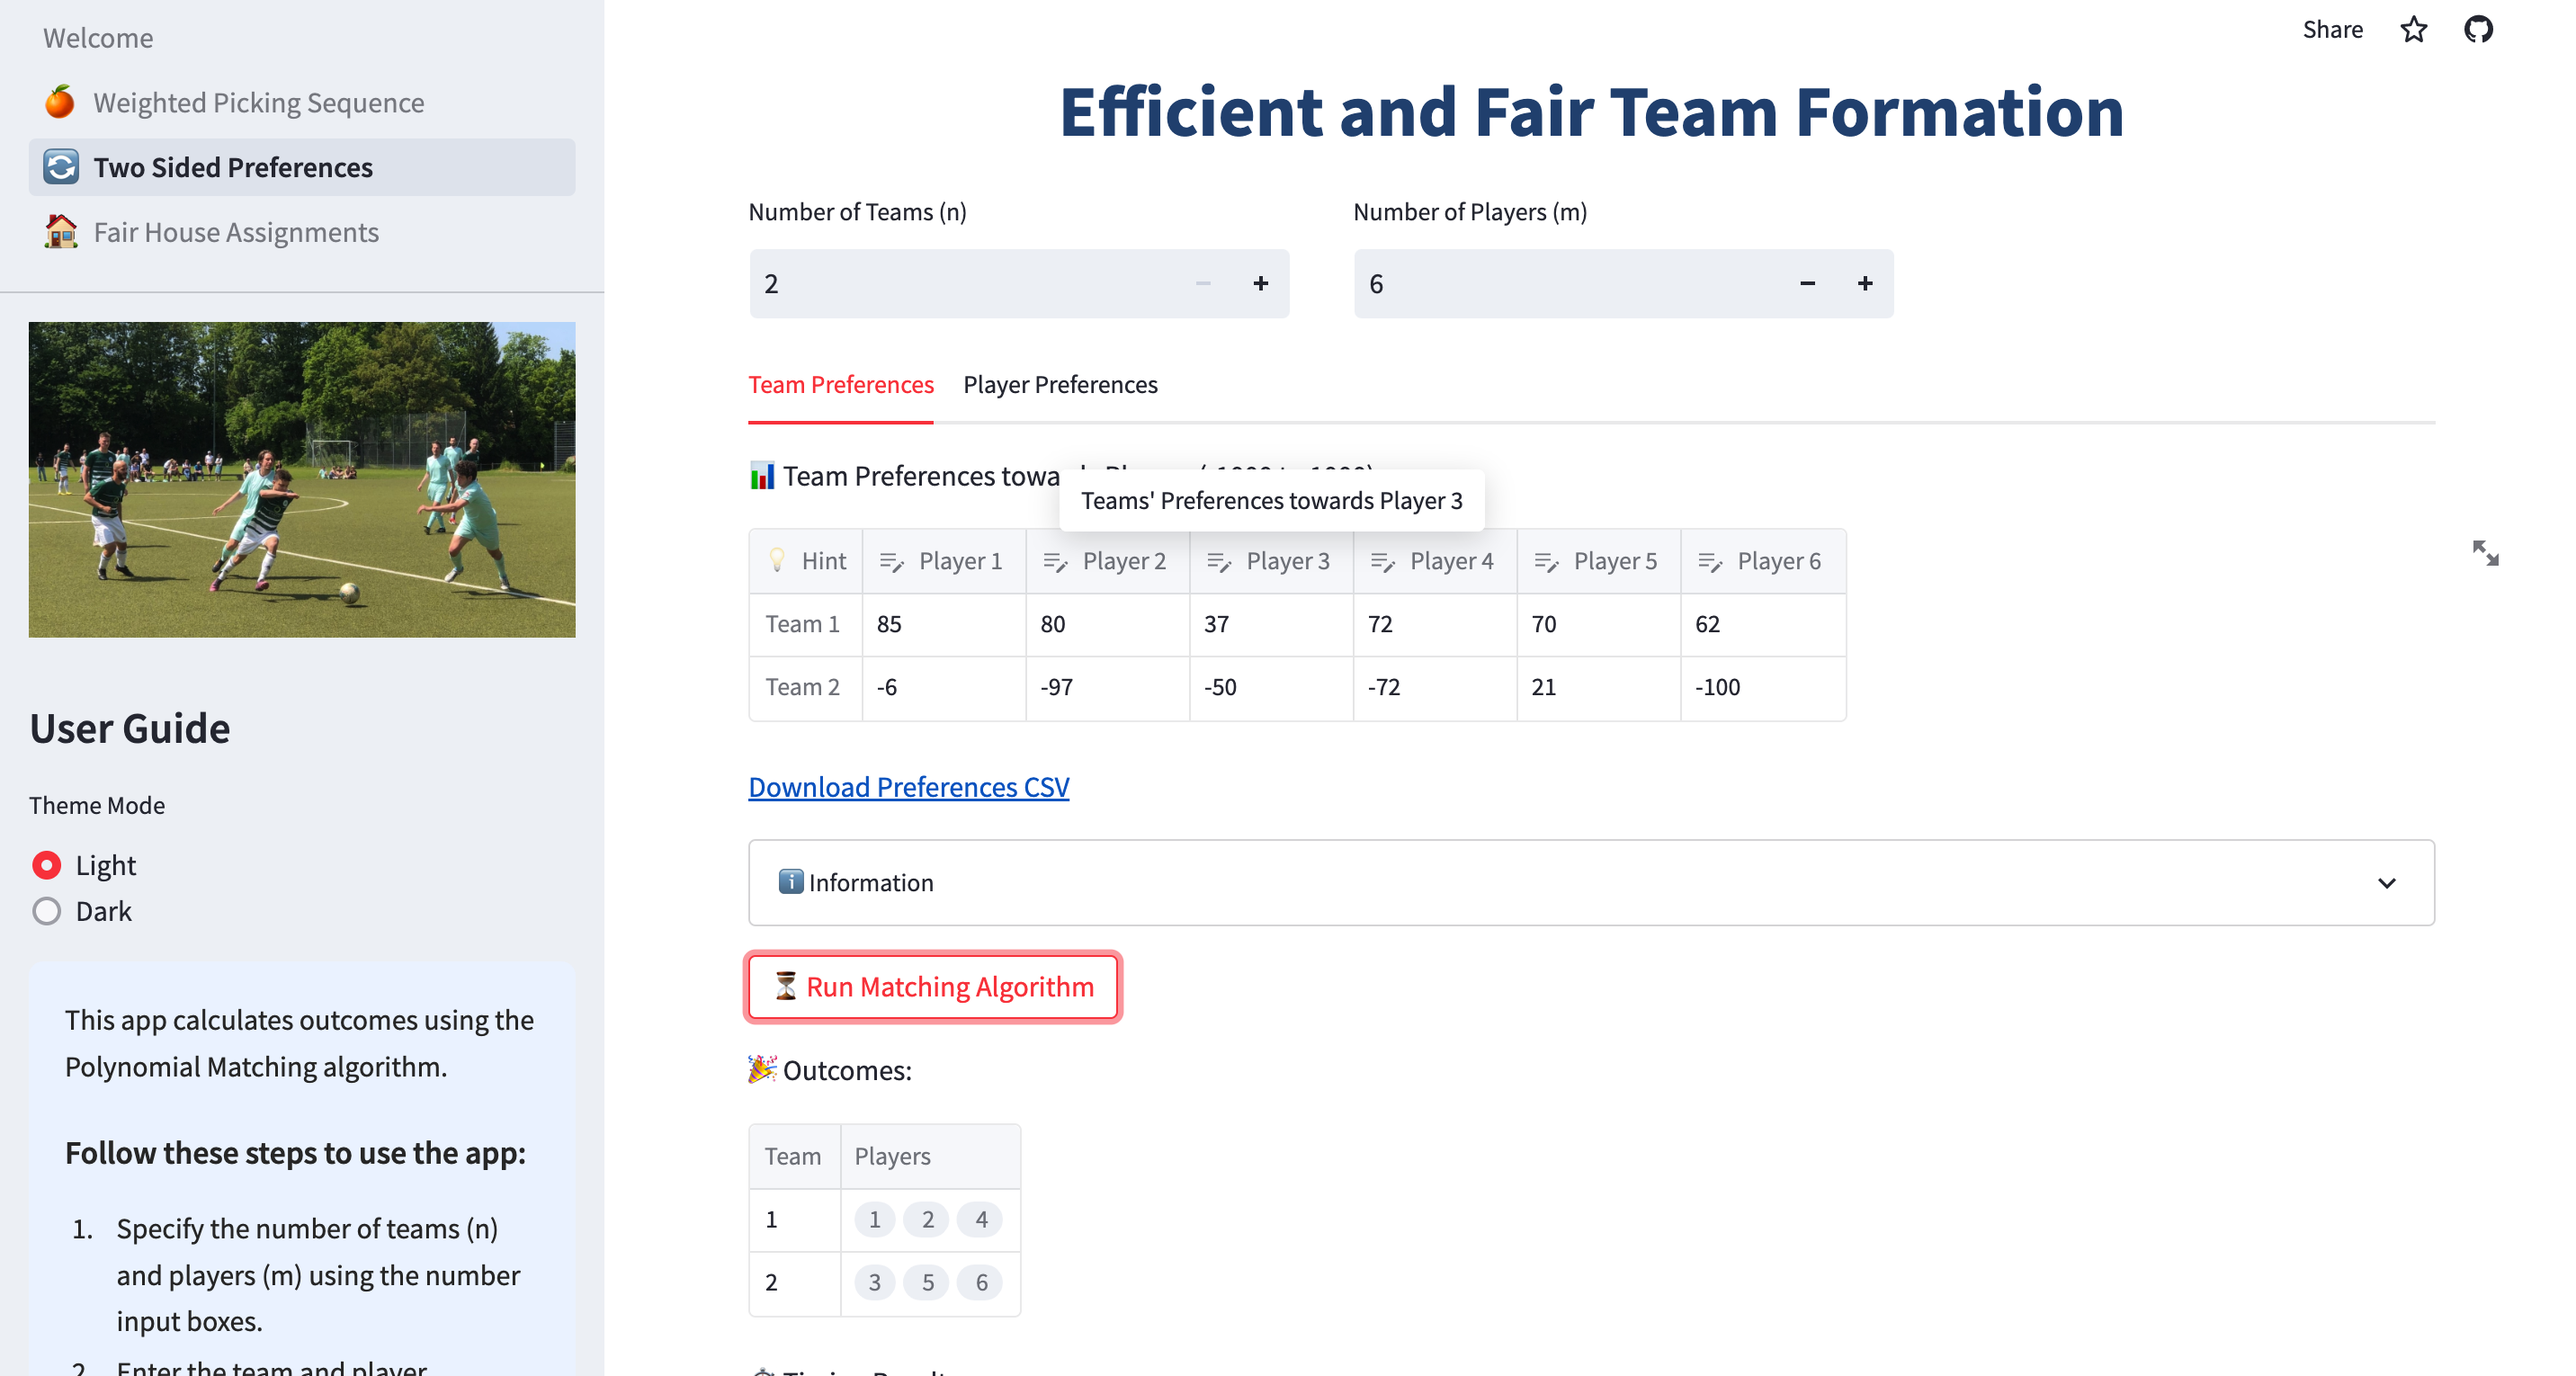
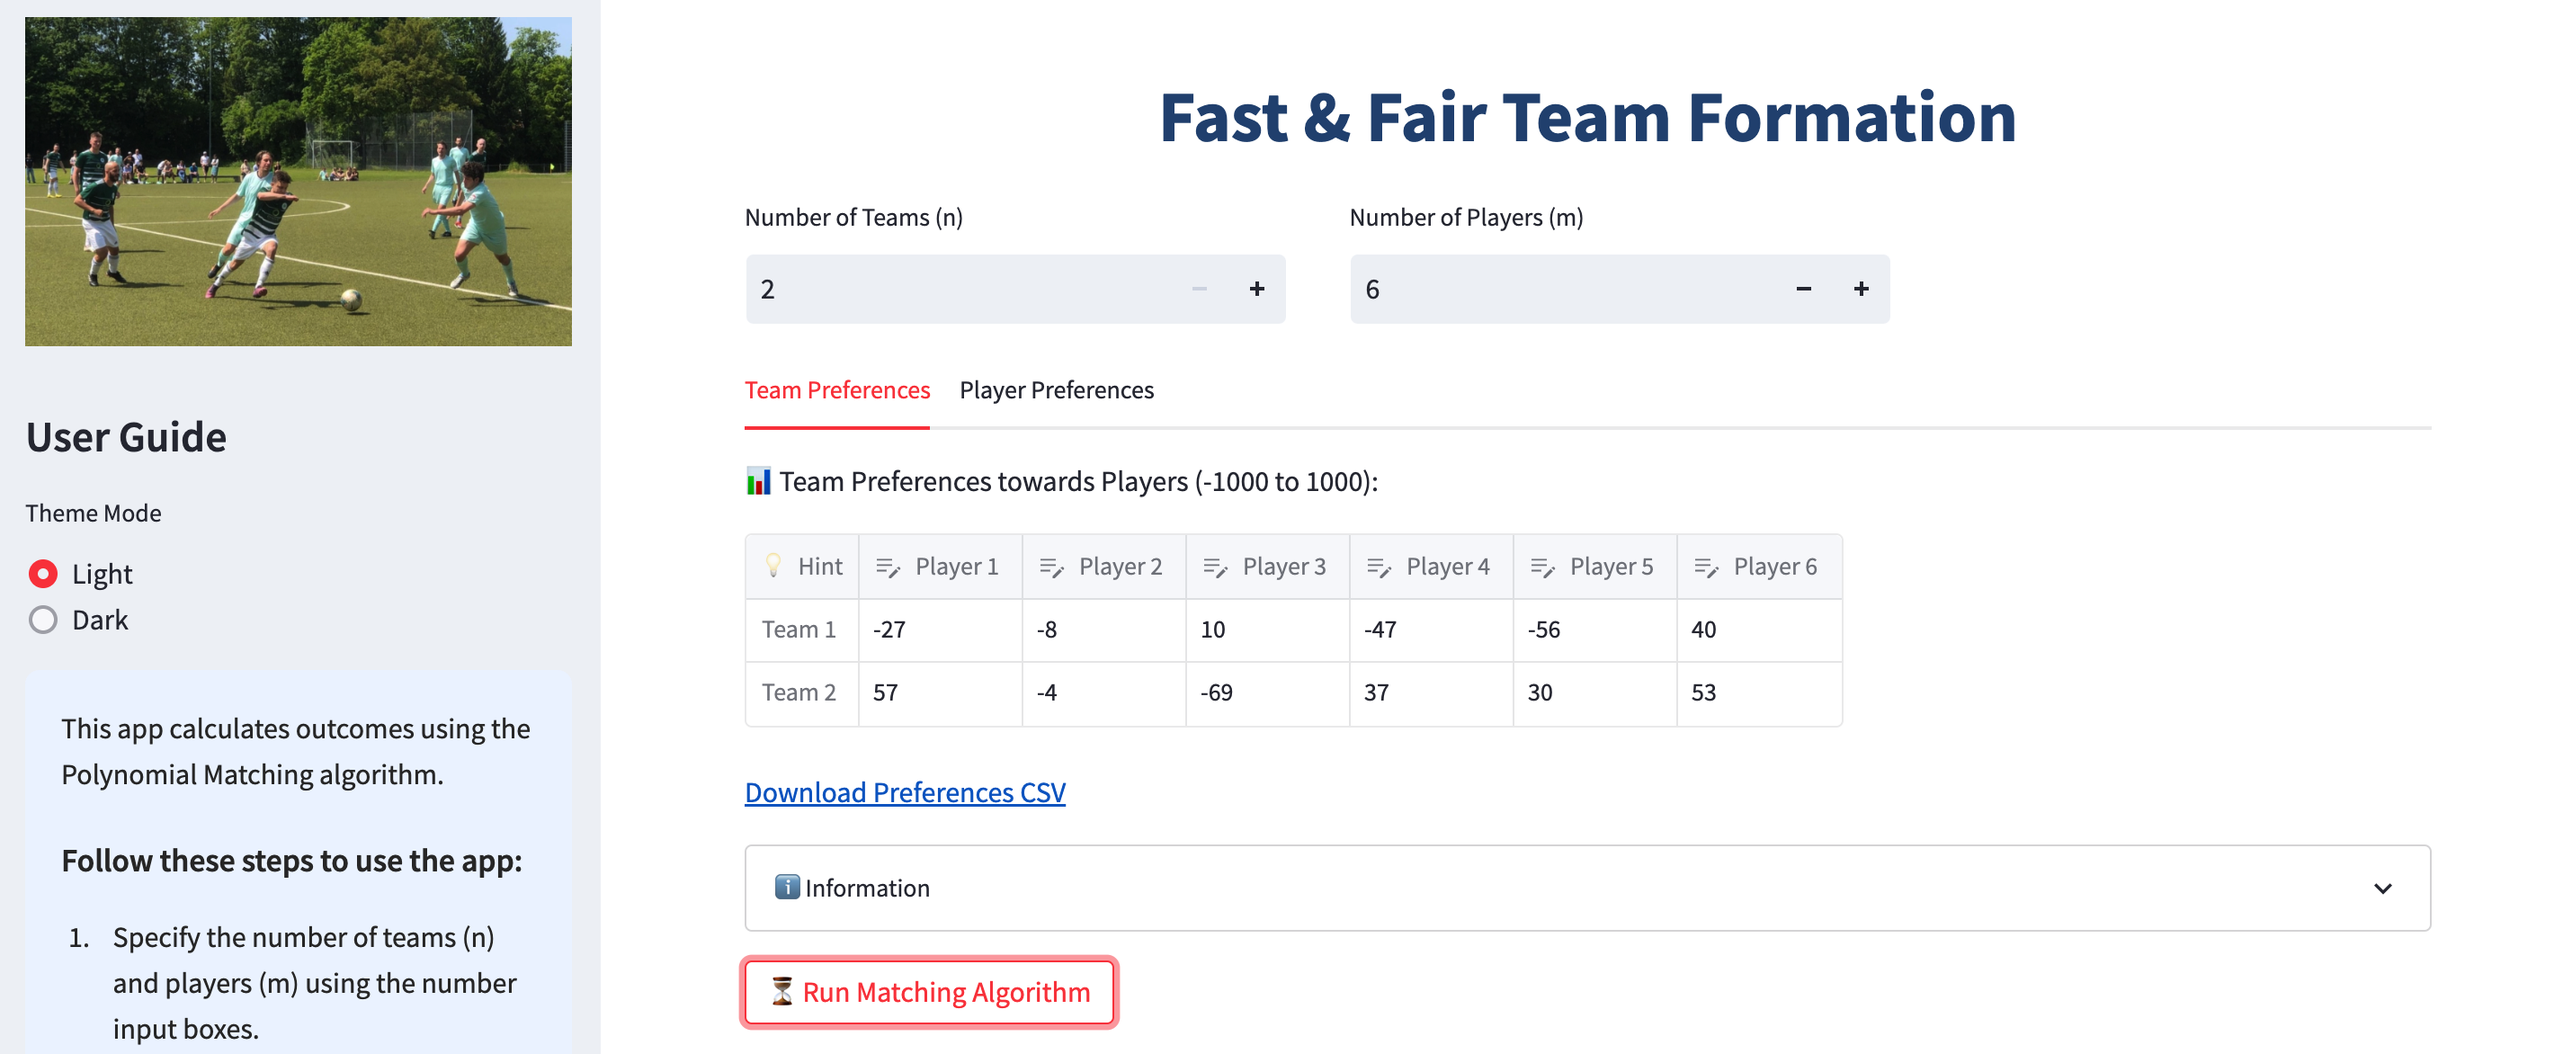
Make advanced contribution guide

diff --git a/Welcome.py b/Welcome.py
@@ -2,7 +2,7 @@ import streamlit as st
 
 # Configure page settings
 st.set_page_config(
-    page_title="Welcome to the Fair Allocation App!",
+    page_title="Welcome to Fast & Fair!",
     page_icon="🌟",
     layout="wide",
 )
@@ -20,14 +20,14 @@ st.markdown(
 )
 
 # Page 1: Introduction
-st.title(" Welcome to the Fair Allocation App! 👋")
+st.title(" Welcome to Fast & Fair! 👋")
 
-st.write("This app is designed to help you achieve fair allocation of indivisible items!")
+st.write("This app is designed to help you achieve fair division of indivisible items!")
 st.markdown(
     """
-    We offer a variety of algorithmic implementations to ensure a fair distribution of these items, taking into account the concept of weighted envy-freeness (WEF).
+    We offer a variety of algorithmic implementations to ensure a fair distribution of these items, taking into account some fairness notions such as envy-freeness up to one item (EF1) and weighted envy-freeness (WEF).
     
-    Weighted envy-freeness is a fairness criterion that aims to minimize the envy experienced by participants in an allocation process. It assigns a weight to each participant's preferences, allowing for personalized fairness. Our app will help you find an allocation that balances these preferences as closely as possible, maximizing overall satisfaction.
+    Our app will help you find an allocation that fulfills these notions as closely as possible, maximizing overall satisfaction.
 """
 )
 
@@ -36,40 +36,67 @@ st.header("App Layout")
 st.write("Let's take a quick tour of the app's components:")
 
 # Load and display the image
-tab1, tab2, tab3 = st.tabs(["App 1","App 2","App 3"])
+tab1, tab2, tab3 = st.tabs(["App 1", "App 2", "App 3"])
 with tab1:
     image = "./resource/layout1.png"
     st.image(image, caption="App Layout", use_column_width=True)
-    
+
 with tab2:
     image = "./resource/layout2.png"
     st.image(image, caption="App Layout", use_column_width=True)
-    
+
 with tab3:
     image = "./resource/layout3.png"
     st.image(image, caption="App Layout", use_column_width=True)
 
-st.markdown("- **Sidebar**: On the left, you'll find a handy sidebar for easy navigation.")
-st.markdown("- **Main Section**: The main section in the center will display the content of the selected page.")
-st.markdown("- **User Guide**: The default page provides a user guide to help you understand how to use the app.")
+st.markdown(
+    "- **Sidebar**: On the left, you'll find a handy sidebar for easy navigation.")
+st.markdown(
+    "- **Main Section**: The main section in the center will display the content of the selected page.")
+st.markdown(
+    "- **User Guide**: The default page provides a user guide to help you understand how to use the app.")
 
-# Page 3: Allocation App Introduction
-st.header("Allocation App: Achieving Weighted Envy-Freeness")
-st.write(
-    "The allocation app is designed to help you achieve weighted envy-freeness by fairly allocating indivisible items. Here's how it works:"
-)
+# Contribution
+st.header("Community Contribution")
+
+st.markdown("""
+            You are cordially invited to join our <a href="https://join.slack.com/t/fastfaircommunity/shared_invite/zt-1xyl1akls-ukrAsy3Kmm5lilCuB1uOmQ">Slack channel</a> for latest updates and Q&A.
+            """,
+            unsafe_allow_html=True)
+
 st.markdown(
     """
-    1. Start by providing the number of participants and the available items.
-    2. For each participant, specify their preferences for the items. You can assign weights to these preferences to reflect their importance.
-    3. Once you've entered all the preferences, click on the 'Run Allocation Algorithm' button.
-    4. Our algorithms will process the inputs and generate an allocation that minimizes envy while considering the weights assigned to preferences.
-    5. The app will display the resulting allocation along with any relevant statistics or insights.
-"""
+    We welcome community contributions. If you are interested to contribute to this site by 
+        authoring a new app, you may check out <a href="https://github.com/JThh/fair-alloc-app-ra/blob/new_main/contribution/ADVANCED_CONTRIBUTION.md">this guide</a>.
+    """,
+    unsafe_allow_html=True,
 )
-st.write(
-    "With our fair allocation app, you can explore various scenarios and experiment with different preferences and weightings to find an allocation that best satisfies the weighted envy-freeness objective."
+
+st.markdown(
+    """
+    If you want to play with a fair allocation app on your own, our <a href="https://fair-alloc.streamlit.app/Create_Your_Own_App!">code template generator</a> will serve your purpose.
+    """,
+    unsafe_allow_html=True,
 )
+
+
+# Page 3: Allocation App Introduction
+# st.header("Allocation App: Achieving Weighted Envy-Freeness")
+# st.write(
+#     "The allocation app is designed to help you achieve weighted envy-freeness by fairly allocating indivisible items. Here's how it works:"
+# )
+# st.markdown(
+#     """
+#     1. Start by providing the number of participants and the available items.
+#     2. For each participant, specify their preferences for the items. You can assign weights to these preferences to reflect their importance.
+#     3. Once you've entered all the preferences, click on the 'Run Allocation Algorithm' button.
+#     4. Our algorithms will process the inputs and generate an allocation that minimizes envy while considering the weights assigned to preferences.
+#     5. The app will display the resulting allocation along with any relevant statistics or insights.
+# """
+# )
+# st.write(
+#     "With our fair allocation app, you can explore various scenarios and experiment with different preferences and weightings to find an allocation that best satisfies the weighted envy-freeness objective."
+# )
 
 st.header("Troubleshooting")
 st.write(
@@ -83,7 +110,6 @@ st.markdown(
     3. Click **Empty Cache and Hard Reload** in the list of options. The cache for this website, and this website only, has been emptied.
 """
 )
-
 
 
 hide_streamlit_style = """

diff --git a/pages/1_🍊_Weighted_Picking_Sequence.py b/pages/1_🍊_Weighted_Picking_Sequence.py
@@ -233,7 +233,7 @@ def wef1x_checker(outcomes, x, m, n, weights, preferences):
 
 
 # Set the title and layout of the web application
-st.markdown('<h1 class="header">Fast and Fair Goods Allocation</h1>',
+st.markdown('<h1 class="header">Fast & Fair Goods Allocation</h1>',
             unsafe_allow_html=True)
 
 # Insert header image

diff --git a/pages/2_🔄_Two_Sided_Preferences.py b/pages/2_🔄_Two_Sided_Preferences.py
@@ -248,7 +248,7 @@ def pchange_callback2(preferences):
 
 
 # Set the title and layout of the web application
-st.markdown('<h1 class="header">Efficient and Fair Team Formation</h1>',
+st.markdown('<h1 class="header">Fast & Fair Team Formation</h1>',
             unsafe_allow_html=True)
 
 # Insert header image

diff --git a/pages/3_🏠_Fair_House_Assignments.py b/pages/3_🏠_Fair_House_Assignments.py
@@ -229,7 +229,7 @@ def ochange_callback(orderings):
 
 
 # Set the title and layout of the web application
-st.markdown('<h1 class="header">Fast and Fair House Assignment</h1>',
+st.markdown('<h1 class="header">Fast & Fair House Assignment</h1>',
             unsafe_allow_html=True)
 
 # Insert header image

diff --git a/README.md b/README.md
@@ -1,8 +1,10 @@
-## Fast & Fair
+# Fast & Fair Web Application
 
 ![Welcome Page](./resource/welcome-nrw.png)
 
-Welcome to Fast & Fair app. We have implemented three algorithms coming from papers ([1](https://arxiv.org/pdf/2112.04166.pdf),[2](https://arxiv.org/pdf/2206.05879.pdf),[3](https://www.sciencedirect.com/science/article/abs/pii/S0165489619300599)). The app is available at https://fair-alloc.streamlit.app/. 
+Welcome to Fast & Fair. We have implemented three algorithms coming from papers ([1](https://arxiv.org/pdf/2112.04166.pdf),[2](https://arxiv.org/pdf/2206.05879.pdf),[3](https://www.sciencedirect.com/science/article/abs/pii/S0165489619300599)). The app is available at https://fair-alloc.streamlit.app/. 
+
+## Introduction
 
 The allocation app is designed to help you achieve some envy-freeness notion (e.g. `WEF(x, 1-x)`, `EF[1,1]`, and `EF`) by fairly allocating indivisible items. Here's how it works:
 
@@ -13,3 +15,9 @@ The allocation app is designed to help you achieve some envy-freeness notion (e.
 5. The app will display the resulting allocation along with any relevant statistics or insights.
 
 With our fair allocation app, you can explore various scenarios and experiment with different preferences and weightings to find an allocation that best satisfies the corresponding fairness and efficiency objective.
+
+## Cummunity and Contribution
+
+Join our [Slack channel](https://join.slack.com/t/fastfaircommunity/shared_invite/zt-1xyl1akls-ukrAsy3Kmm5lilCuB1uOmQ) for latest updates and to ask questions.
+
+We welcome community contribution. Please refer to the [Contribution Guide](./contribution/ADVANCED_CONTRIBUTION.md) for details. 

diff --git a/contribution/ADVANCED_CONTRIBUTION.md b/contribution/ADVANCED_CONTRIBUTION.md
@@ -4,7 +4,7 @@ This serves as an advanced guide for experienced coders. You may skip the decomp
 
 ### Code Section Decomposition
 
-We take reference from the codes of the [weight picking sequence app](../pages/1_%F0%9F%8D%8A_Weighted_Picking_Sequence.py) to decompose the code components.
+We take reference from the codes of the [weight picking sequence app](../pages/1_%F0%9F%8D%8A_Weighted_Picking_Sequence.py) to decompose the code components. The codes are written in a functional programming style.
 
 1. *Importing libraries*: The code imports various libraries such as `defaultdict`, `base64`, `partial`, `json`, `time`, `numpy`, `pandas`, and `streamlit` for different functionalities.
 
